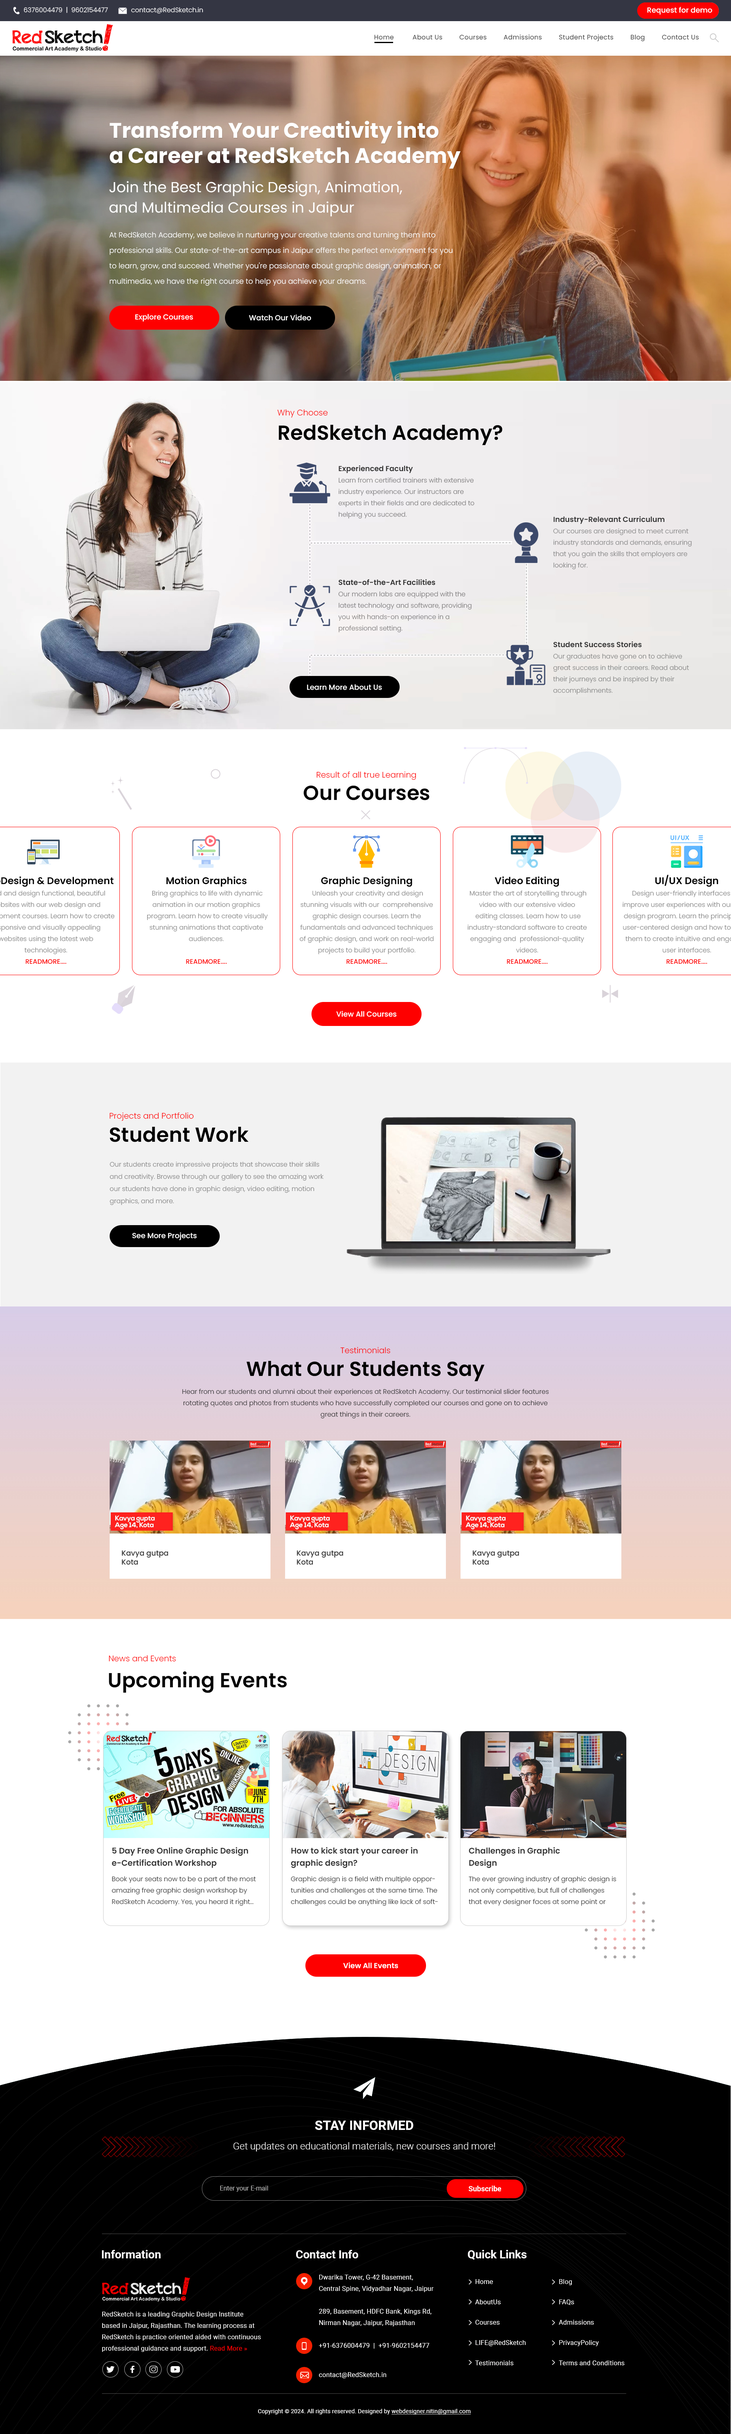
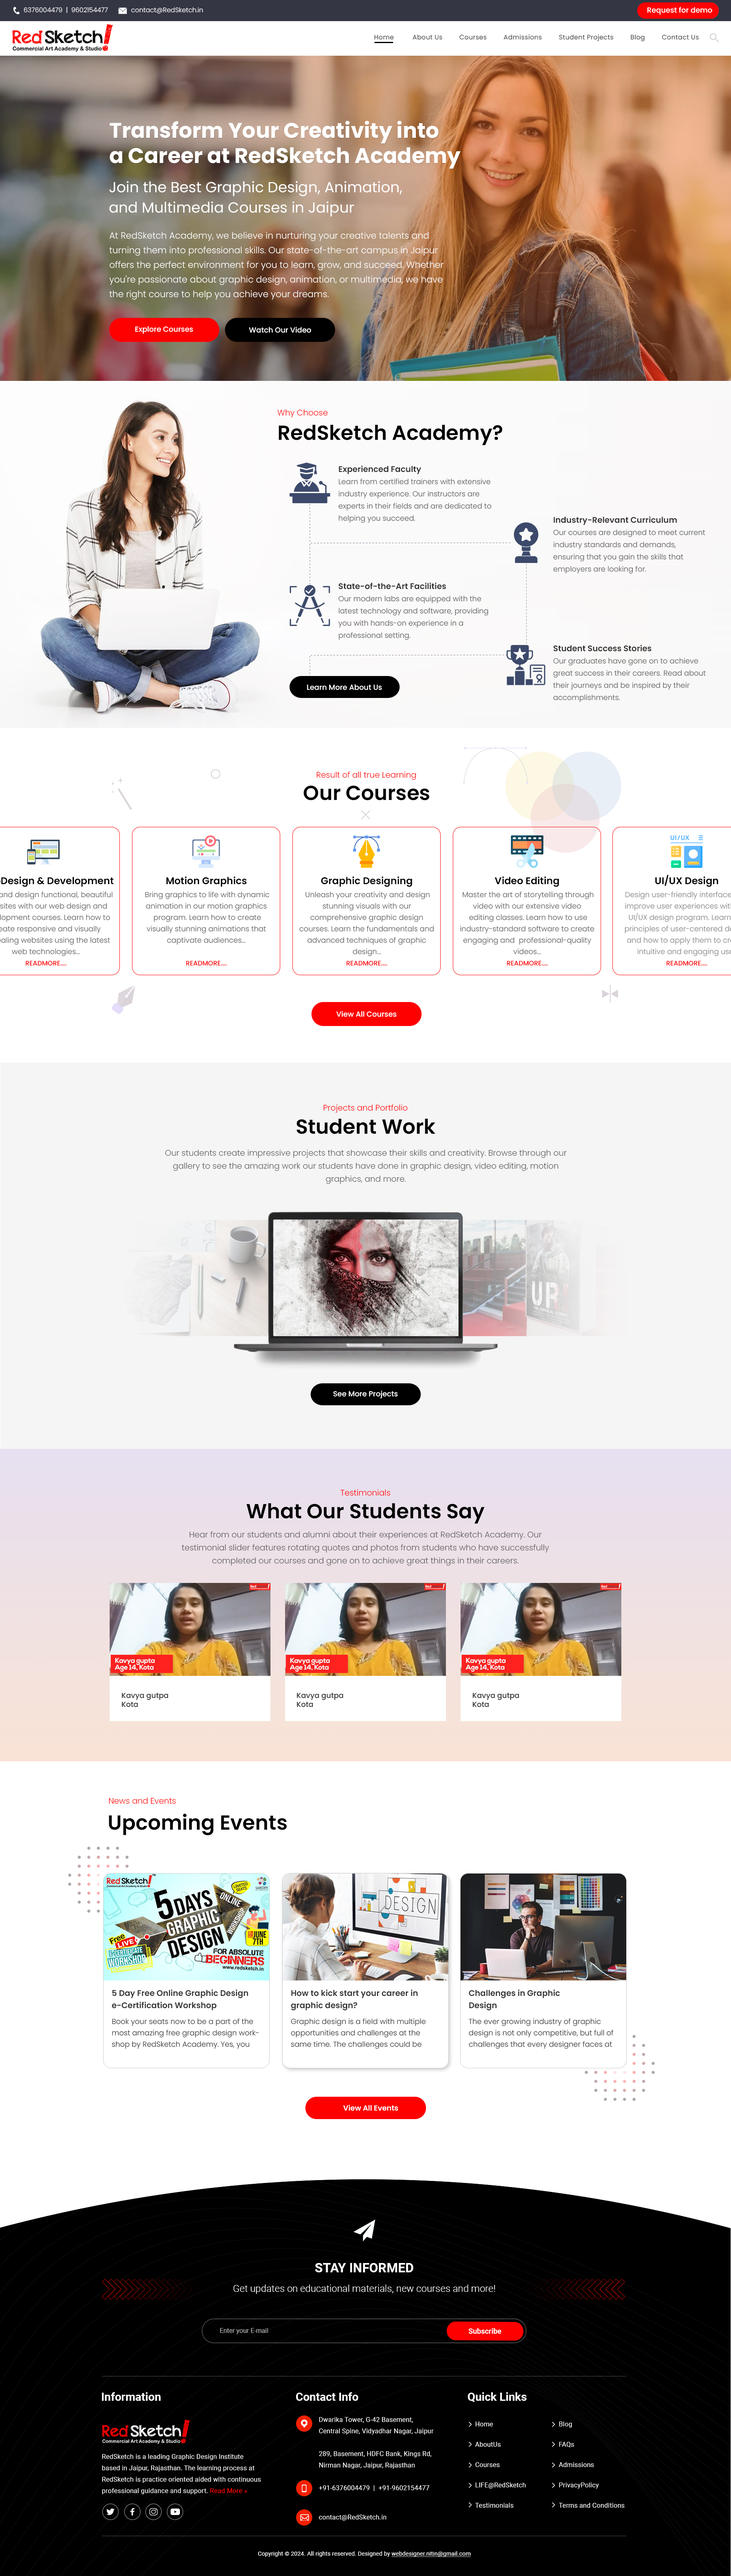
change font-size

diff --git a/index.html b/index.html
@@ -25,7 +25,7 @@
   
   body{
     background: url(img/home_page_5.jpg) no-repeat top center;
-    height: 5988px;
+    height: 6337px;
     width: 100%;
     margin: 0;
     padding: 0;
